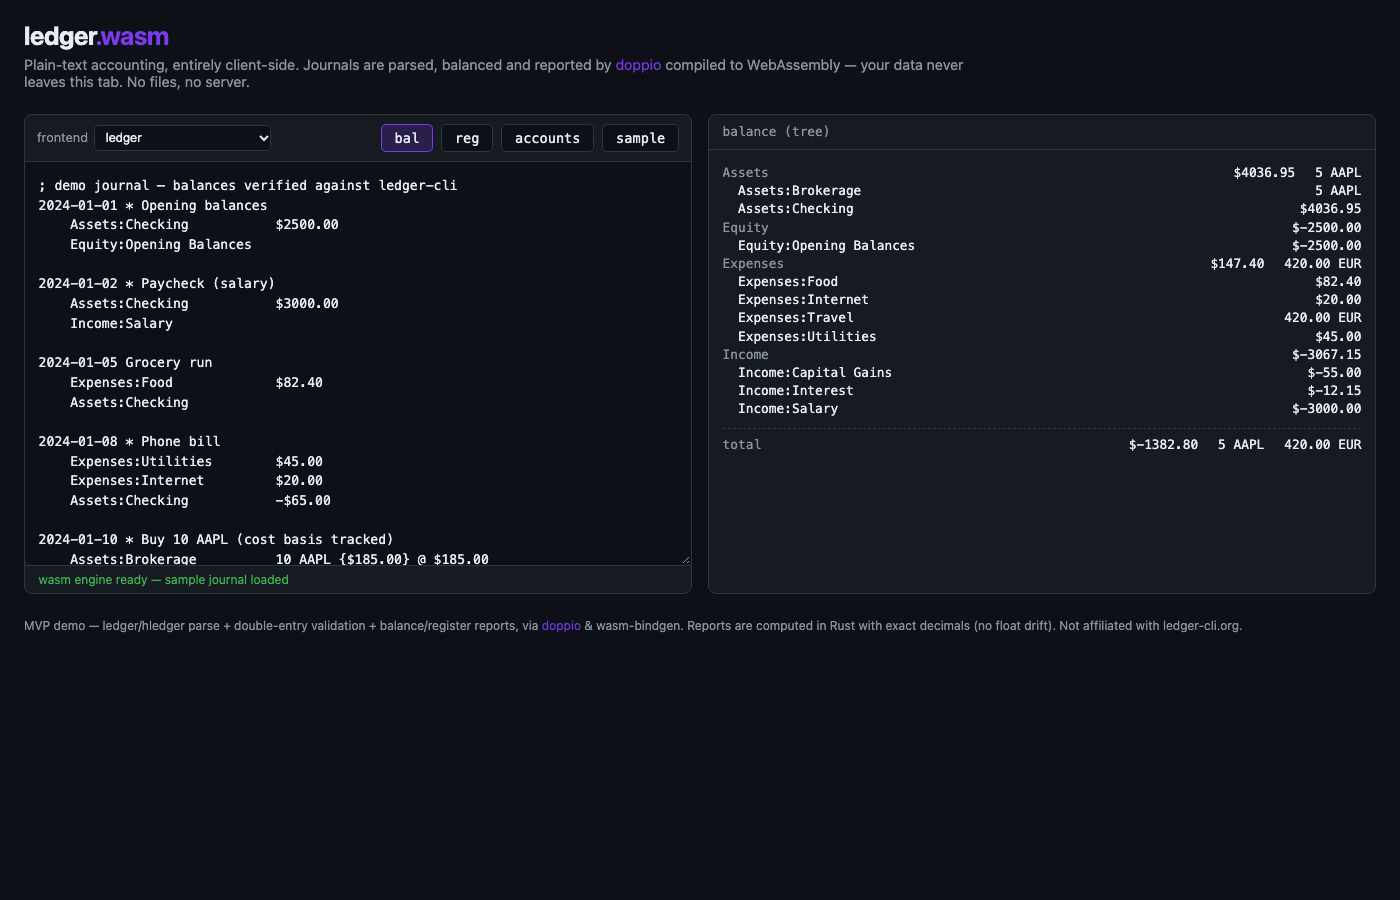
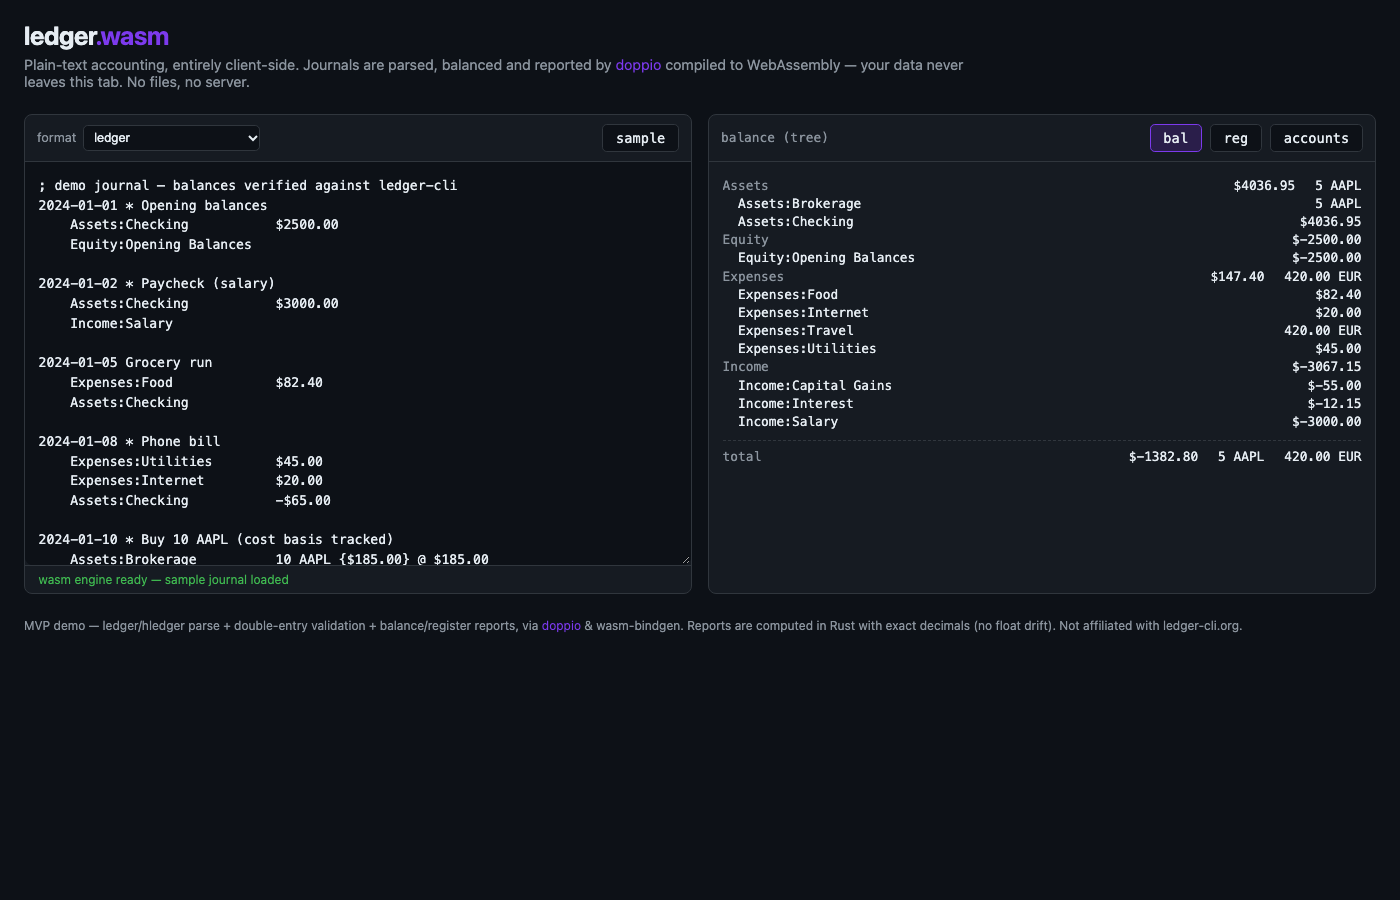
UI: move report buttons to the report pane; relabel frontend selector to format

diff --git a/web/index.html b/web/index.html
@@ -18,7 +18,7 @@
   <main>
     <section class="pane pane-source">
       <div class="toolbar">
-        <label>frontend
+        <label>format
           <select id="frontend">
             <option value="ledger" selected>ledger</option>
             <option value="hledger">hledger</option>
@@ -26,9 +26,6 @@
           </select>
         </label>
         <span class="spacer"></span>
-        <button id="btn-balance" class="primary" title="ledger bal">bal</button>
-        <button id="btn-register" title="ledger reg">reg</button>
-        <button id="btn-accounts" title="ledger accounts">accounts</button>
         <button id="btn-sample" title="load the sample journal">sample</button>
       </div>
       <textarea id="source" spellcheck="false" placeholder="Paste a ledger journal here…"></textarea>
@@ -37,7 +34,13 @@
     </section>
 
     <section class="pane pane-report">
-      <div class="report-header"><span id="report-title">report</span></div>
+      <div class="toolbar">
+        <span id="report-title">report</span>
+        <span class="spacer"></span>
+        <button id="btn-balance" class="primary" title="ledger bal">bal</button>
+        <button id="btn-register" title="ledger reg">reg</button>
+        <button id="btn-accounts" title="ledger accounts">accounts</button>
+      </div>
       <div id="report" class="report">
         <div class="placeholder">Run <code>bal</code>, <code>reg</code> or <code>accounts</code> to see results here.</div>
       </div>

diff --git a/web/app.js b/web/app.js
@@ -148,11 +148,11 @@ let engineKey = null; // source+frontend cache key
 
 function getEngine() {
   const source = $("source").value;
-  const frontend = $("frontend").value;
-  const key = frontend + "\u0000" + source;
+  const format = $("frontend").value;
+  const key = format + "\u0000" + source;
   if (engine && engineKey === key) return engine;
   clearError();
-  engine = new Engine(source, frontend); // throws on parse/elaboration error
+  engine = new Engine(source, format); // throws on parse/elaboration error
   engineKey = key;
   return engine;
 }

diff --git a/web/style.css b/web/style.css
@@ -119,6 +119,11 @@ textarea#source:focus { box-shadow: inset 0 0 0 1px var(--accent); }
   font-size: 0.8rem;
   color: var(--muted);
 }
+#report-title {
+  font-family: var(--mono);
+  font-size: 0.8rem;
+  color: var(--muted);
+}
 .report {
   flex: 1;
   overflow: auto;
